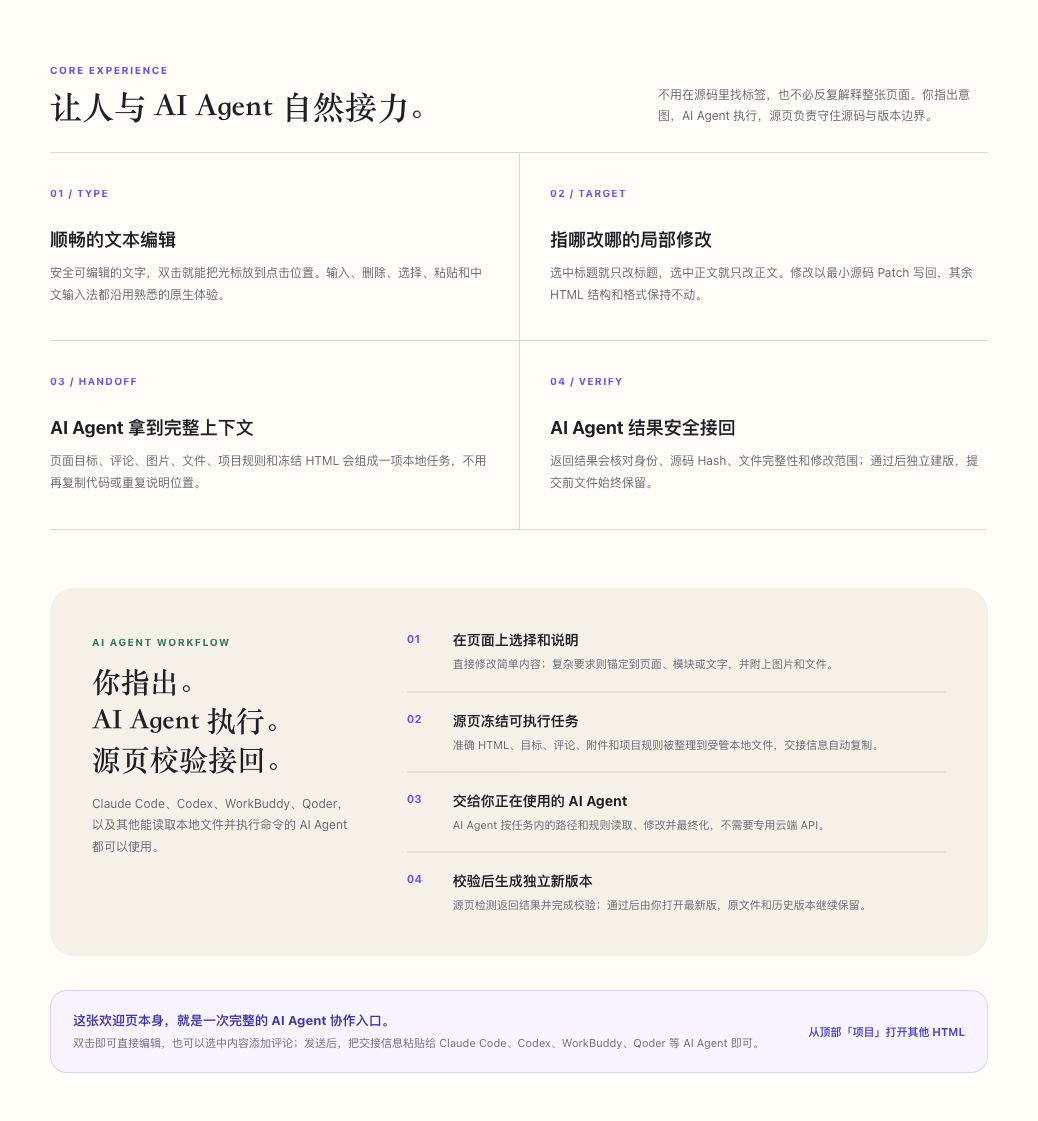
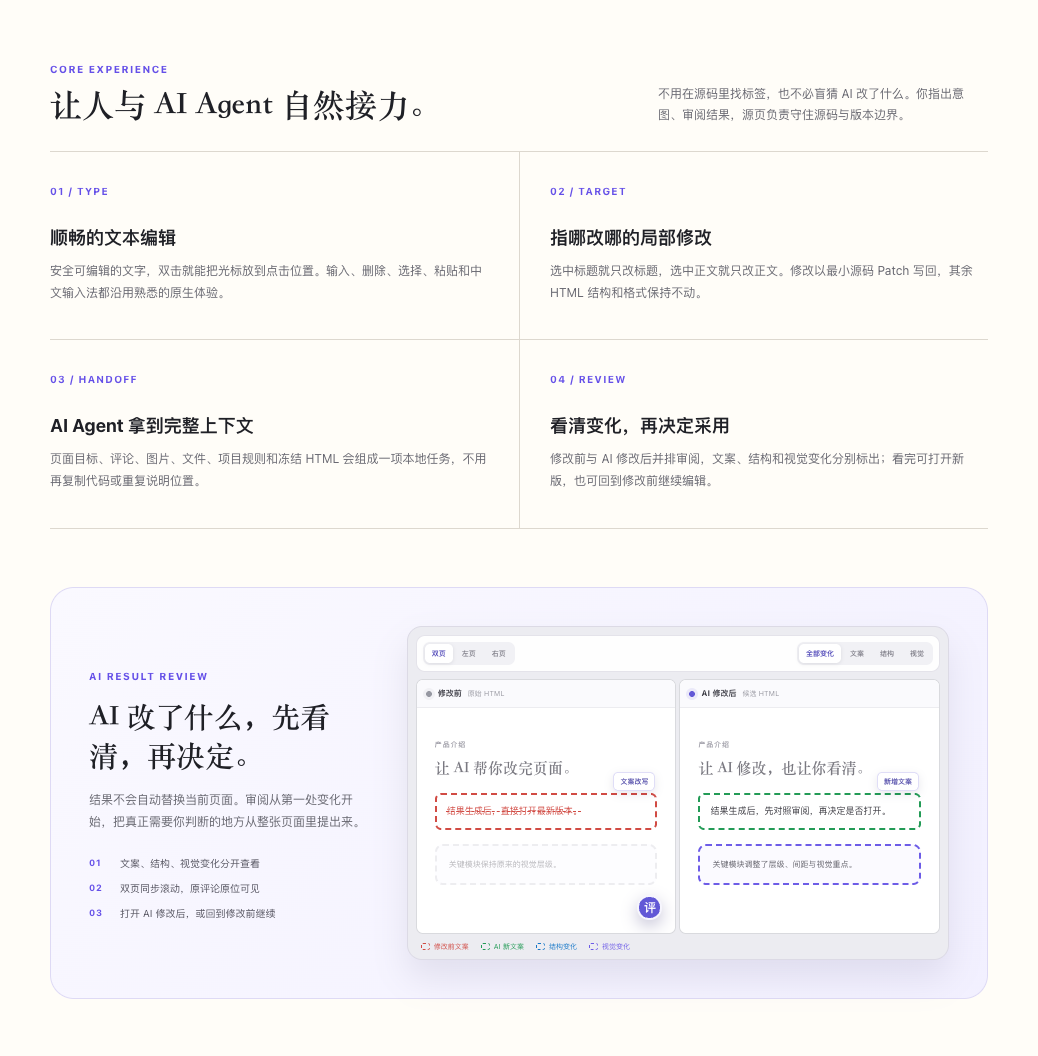
docs: introduce the AI review workflow

diff --git a/app/components/AboutPageRootDialog.tsx b/app/components/AboutPageRootDialog.tsx
@@ -255,7 +255,9 @@ export default function AboutPageRootDialog({
             <p id="about-pageroot-description">
               源码级本地 HTML 编辑器。
               <br />
-              所见即可改，AI Agent 无缝接力，源码始终是真相。
+              所见即可改，AI Agent 无缝接力。
+              <br />
+              修改前后对照审阅，再由你决定打开。
             </p>
           </div>
         </header>

diff --git a/README.md b/README.md
@@ -5,10 +5,10 @@
 <h1 align="center">PageRoot</h1>
 
 <p align="center">
-  <strong>Edit visually. Collaborate with AI agents. Stay in source.</strong><br />
+  <strong>Edit visually. Hand off to any AI agent. Review before you adopt.</strong><br />
   A local-first, source-preserving visual HTML workspace for macOS, built for seamless collaboration with AI coding agents.<br /><br />
-  <strong>所见即可改，AI Agent 无缝接力，源码始终是真相。</strong><br />
-  面向 macOS 的本地优先、源码保真可视化 HTML 工作台。
+  <strong>所见即可改，AI Agent 无缝接力，审阅之后再采用。</strong><br />
+  面向 macOS 的本地优先、源码保真可视化 HTML 工作台；源码始终是真相。
 </p>
 
 <p align="center">
@@ -29,7 +29,7 @@
 </p>
 
 <p align="center">
-  <img src="docs/assets/pageroot-welcome-hero.png" width="1040" alt="PageRoot visual HTML workspace for seamless AI agent collaboration / 源页与 AI Agent 无缝协作的可视化 HTML 工作台" />
+  <img src="docs/assets/pageroot-welcome-hero.png" width="1040" alt="PageRoot visual HTML workspace with review-before-adopt AI collaboration / 源页支持修改前后审阅的 AI Agent 可视化 HTML 工作台" />
 </p>
 
 <p align="center">
@@ -48,14 +48,16 @@ PageRoot turns what you point at on a page into an agent-ready local task. Ancho
 Point and comment in PageRoot
   → freeze exact HTML + targets + attachments + project rules
   → hand off one local task to your AI agent
-  → validate the result and keep it as a separate version
+  → validate and hold the result as a separate candidate
+  → review before and after side by side
+  → choose what becomes your current HTML
 ```
 
 ## Visual HTML editing without surrendering your source
 
 PageRoot is a local-first visual HTML editor for macOS—a source-preserving alternative to conventional WYSIWYG website editors for real `.html` files. Open a local page, double-click supported text, and edit with the browser’s native caret, selection, paste, and input-method behavior. PageRoot maps that intent back to the exact source range and writes a minimal patch instead of serializing the preview DOM.
 
-For larger or generative changes, PageRoot prepares a complete local task package and copies one concise handoff instruction. Your AI agent reads the frozen HTML and declared context, writes one complete HTML result to the designated output path, and runs the included finalizer. PageRoot then validates identity, source hash, path, integrity, and allowed scope before keeping the result as a separate version that you choose when to open.
+For larger or generative changes, PageRoot prepares a complete local task package and copies one concise handoff instruction. Your AI agent reads the frozen HTML and declared context, writes one complete HTML result to the designated output path, and runs the included finalizer. PageRoot validates the result and keeps it separate, then makes a read-only side-by-side review the primary next step before you choose which version to use.
 
 It is built for people editing landing pages, prototypes, documentation pages, and static pages generated by AI agents or authored by hand—without giving up visual speed or source fidelity.
 
@@ -63,20 +65,32 @@ It is built for people editing landing pages, prototypes, documentation pages, a
 
 - **Edit directly on the page.** Double-click safe text, place the caret where you clicked, type with a native-feeling workflow, format supported text, and reorder supported sibling sections.
 - **Preserve the HTML you actually own.** Every persistent visual edit becomes a source-level patch limited to the resolved target. Unrelated markup, formatting, and authored structure are not rebuilt from the DOM.
-- **Review changes in context.** Comments stay attached to page, section, text, or insertion targets. Images and files travel with the comment, so the request and its evidence remain together.
+- **Review AI changes on the page, not in a raw diff.** Before and after open side by side; copy, structure, and visual changes are labeled separately, while your original comments remain pinned to their targets.
 - **Use the AI agent you already trust.** The local-file handoff works with Claude Code, Codex, WorkBuddy, Qoder, and other filesystem-capable agents; PageRoot does not launch, control, or paste into them.
 - **Bring AI agent changes back as verified versions.** The submitted source is frozen, returned HTML must pass fail-closed checks, and pre-submit files remain available.
 - **Detect conflicts instead of overwriting them.** Local writes are serialized and atomic; an unexpected external file change pauses writeback and asks you to resolve it.
 
 <p align="center">
-  <img src="docs/assets/pageroot-welcome-features.png" width="1040" alt="PageRoot AI agent handoff, visual HTML editing, precise source patches, and validated version workflow / 源页 AI Agent 交接、可视化编辑与版本校验流程" />
+  <img src="docs/assets/pageroot-welcome-features.png" width="1040" alt="PageRoot visual editing, AI agent handoff, and review-before-adopt workflow / 源页可视化编辑、AI Agent 交接与修改前后审阅流程" />
 </p>
 
-### From a local HTML file to a verified version
+### Review what changed before it becomes current
+
+An AI result can look plausible while still hiding a missed detail. PageRoot makes review the primary next step: both versions open at the first change, scroll together by default, and keep unchanged context quiet so the differences are easy to scan. You can filter copy, structure, or visual changes; inspect the content map; switch to either page; and reveal the comments that originally asked for the work.
+
+<p align="center">
+  <img src="docs/assets/pageroot-ai-review.png" width="1200" alt="PageRoot side-by-side AI result review with review controls and an anchored user comment / 源页并排审阅 AI 修改结果，并在原位置显示用户评论" />
+  <br /><sub>Actual PageRoot review workspace with synthetic demo content · 源页真实审阅界面，页面内容为合成演示数据</sub>
+</p>
+
+When the result is right, choose **Open AI changes**. When it is not, return to the pre-AI page and continue editing. The candidate remains safely preserved either way; review never silently replaces your current HTML.
+
+### From a local HTML file to a reviewed version
 
 1. **Open and edit.** Open a real local HTML file. Safe text edits and supported visual adjustments write back automatically through precise source patches.
 2. **Comment and hand off.** Mark the exact place that needs a larger change, add context or attachments, then let PageRoot freeze and copy the agent-ready handoff.
-3. **Validate and choose.** PageRoot checks the returned full HTML before creating a new immutable version. Your current file is not silently replaced; you explicitly open the latest version.
+3. **Review the AI result.** PageRoot checks and preserves the returned HTML, then shows before and after side by side with each kind of change labeled on the page.
+4. **Choose what becomes current.** Open the AI version when it is right, or return to the pre-AI page and keep working. Neither side is silently overwritten.
 
 ### Source-first by design
 
@@ -113,14 +127,16 @@ The current HTML bytes are authoritative. Preview DOM is disposable and is never
 在源页中指出位置并写下要求
   → 冻结准确 HTML + 目标 + 附件 + 项目规则
   → 把一项本地任务交给你的 AI Agent
-  → 校验结果并保留为独立新版本
+  → 校验结果并独立保留为候选版本
+  → 并排审阅修改前与 AI 修改后
+  → 由你决定哪一版成为当前 HTML
 ```
 
 ## 让真实 HTML 始终掌握控制权的可视化编辑器
 
 源页是一款面向 macOS 的本地优先可视化 HTML 编辑器，也是一种不会把预览 DOM 重新序列化回源码的所见即所得编辑方式。打开真实的本地 `.html` 文件，双击安全可编辑的文字，即可沿用熟悉的光标、选区、粘贴和中文输入法体验。源页会把你的操作精确映射回源码，只修改对应范围。
 
-遇到生成内容、跨区域调整或需要更多判断的修改，源页会准备完整的本地任务包，并复制一条简洁的交接指令。AI Agent 读取冻结 HTML 和声明过的上下文，把一份完整 HTML 写入指定输出位置并执行随附的最终化命令；源页随后校验身份、源码 Hash、路径、文件完整性和修改范围，再把结果保存为由你主动打开的独立版本。
+遇到生成内容、跨区域调整或需要更多判断的修改，源页会准备完整的本地任务包，并复制一条简洁的交接指令。AI Agent 读取冻结 HTML 和声明过的上下文，把一份完整 HTML 写入指定输出位置并执行随附的最终化命令；源页校验后先把结果独立保留，再把只读审阅作为首要入口，让你直接对照真实页面，决定最后使用哪一版。
 
 它适合修改由 AI Agent 生成的落地页、原型、文档页、静态页面和手写 HTML：既获得可视化网页编辑的直观速度，也保留本地 HTML 编辑器应有的源码可信度。
 
@@ -128,16 +144,28 @@ The current HTML bytes are authoritative. Preview DOM is disposable and is never
 
 - **直接在真实页面上修改。** 双击安全文字，光标落在点击位置；自然输入、选择和粘贴，并可调整受支持的文字样式与同级模块顺序。
 - **只改你明确选择的范围。** 每次持久化编辑都是源码级局部 Patch，不会用预览 DOM 重建整份文件，也不会顺带改乱无关结构和格式。
-- **让评论始终带着上下文。** 评论可以跟随页面、模块、具体文字或插入位置，图片和文件附件与目标、要求、历史版本保持对应。
+- **在页面上审阅 AI 修改，而不是硬看代码 Diff。** 修改前与 AI 修改后并排呈现，文案、结构和视觉变化分别标出；你原来写下的评论仍停在对应位置。
 - **继续使用你信任的 AI Agent。** 本地文件交接可用于 Claude Code、Codex、WorkBuddy、Qoder 及其他具备文件能力的 AI Agent；源页不会启动、控制它们或代替你粘贴。
 - **把 AI Agent 结果作为经过校验的新版本带回来。** 提交内容先冻结，返回结果必须通过完整校验，提交前文件继续保留。
 - **遇到冲突就停止，而不是覆盖。** 本地写回串行且原子；发现文件被其他程序修改时会暂停写入，等待你明确处理。
 
-### 从本地 HTML 到经过校验的新版本
+### AI 改了什么，看清之后再决定
+
+AI 结果看起来合理，也可能藏着遗漏。源页把“审阅对比”放在结果返回后的首要位置：默认从第一处变化开始，修改前后同步滚动，未改区域降低存在感，让真正需要判断的内容更醒目。你可以只看文案、结构或视觉变化，打开内容地图，切换单页，也可以回看当初提出要求的评论。
+
+<p align="center">
+  <img src="docs/assets/pageroot-ai-review.png" width="1200" alt="源页并排审阅 AI 修改结果，并在原位置显示用户评论" />
+  <br /><sub>源页真实审阅界面，页面内容为合成演示数据</sub>
+</p>
+
+确认满意后，选择“打开 AI 修改后”；不满意，就回到修改前继续编辑。无论如何，AI 候选都安全保留，审阅本身不会静默替换当前 HTML。
+
+### 从本地 HTML 到经过审阅的新版本
 
 1. **打开并直接修改。** 打开真实本地 HTML；安全文字与受支持的视觉调整会通过精准源码 Patch 自动写回。
 2. **评论并交给 AI Agent。** 标出需要较大修改的准确位置，补充说明或附件，由源页冻结本轮内容并复制可直接执行的交接信息。
-3. **校验后由你决定打开。** 源页先核对 AI Agent 返回的完整 HTML，再建立不可变的新版本；不会静默替换当前文件，最新版由你主动打开。
+3. **审阅 AI 修改。** 源页核对并独立保留返回的完整 HTML，再并排展示修改前后，把不同变化直接标在页面上。
+4. **决定当前使用哪一版。** 满意就打开 AI 新版，不满意就回到修改前继续；任何一侧都不会被静默覆盖。
 
 ### 源码优先，而不是 DOM 优先
 

diff --git a/docs/INTERACTION_FLOW.md b/docs/INTERACTION_FLOW.md
@@ -101,7 +101,7 @@ stateDiagram-v2
 2. 通过 Bridge 登记独立的 `projectId`、`documentId` 和初始 V1。
 3. 按与用户打开 HTML 相同的源码写回、评论、附件、Request、QoderWork 交接和版本流程运行。
 
-欢迎 HTML 只在文件不存在时写入；模板引用的 `brand-logo.png` 同时以受管普通文件写到 HTML 同级目录，桌面首次打开不得显示断图。用户对欢迎 HTML 的修改、AI 新版和项目记录在重启后继续保留，应用不得用内置模板覆盖。已有当前项目时仍优先恢复该项目，不额外创建或切换欢迎项目。纯浏览器预览没有桌面文件权限，继续使用只存在于内存中的欢迎内容和公开品牌图。
+欢迎 HTML 只在文件不存在时写入；模板以用户语言介绍直接编辑、AI Agent 交接和“修改前后对照、审阅后再决定”的结果流程，并用与正式审阅界面一致的文案、结构、视觉变化语义展示双页示意。模板引用的 `brand-logo.png` 同时以受管普通文件写到 HTML 同级目录，桌面首次打开不得显示断图。用户对欢迎 HTML 的修改、AI 新版和项目记录在重启后继续保留，应用不得用内置模板覆盖。已有当前项目时仍优先恢复该项目，不额外创建或切换欢迎项目。纯浏览器预览没有桌面文件权限，继续使用只存在于内存中的欢迎内容和公开品牌图。
 
 正式签名 App 首次访问 `Documents` 时，macOS 权限确认可以暂停本地工作区
 服务启动。只要服务进程仍在运行，系统保持同一次启动并等待其明确 `ready`；

diff --git a/CHANGELOG.md b/CHANGELOG.md
@@ -4,6 +4,12 @@ Notable user-visible changes are documented here. This project follows Semantic 
 
 ## [Unreleased]
 
+- Bring the review-first AI workflow into the public README, built-in welcome
+  project, About dialog and first-open guide. The new user-facing story shows
+  before and after side by side, explains copy, structure and visual change
+  labels in plain language, and makes clear that users choose which version to
+  open after reviewing; no AI result silently replaces the current HTML.
+
 ## [0.9.6] - 2026-08-06
 
 - Stop Canvas text undo/redo from blanking and jumping the page. Bridge-verified
